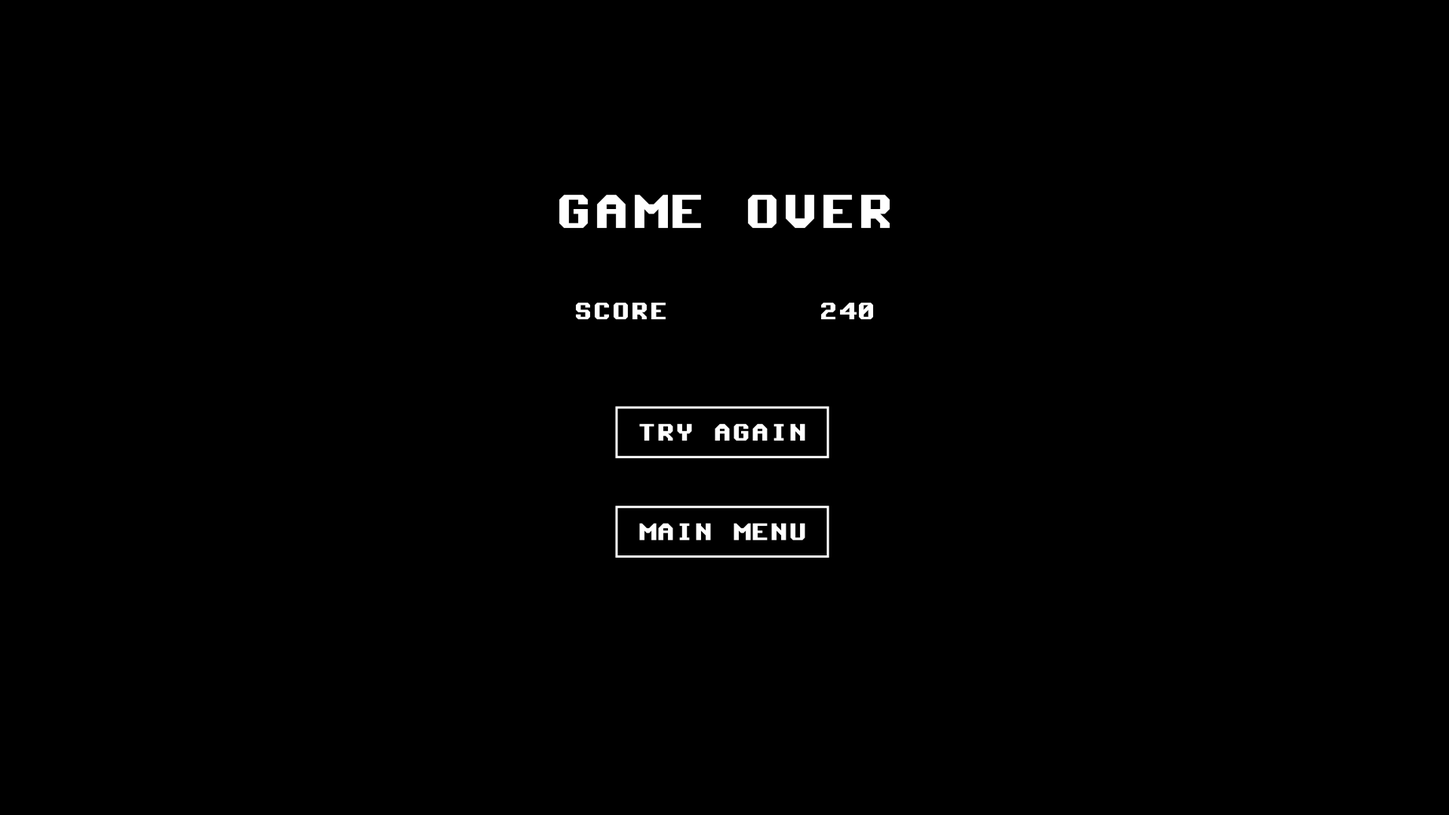
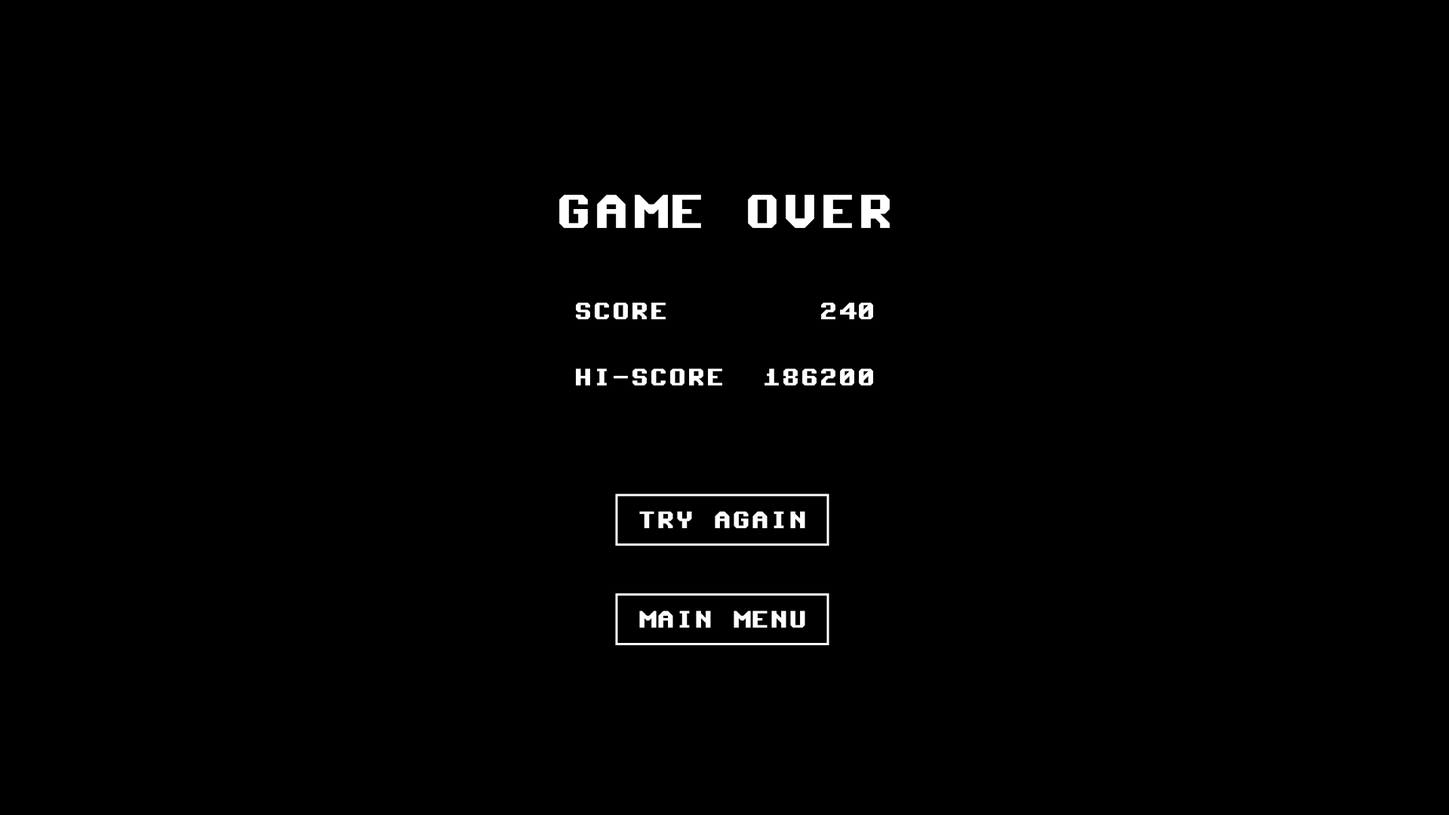
Plan reviewed by Sonnet. Unclear elements discussed and fixed.

Changed region(s): [[0.375, 0.4278, 0.625, 0.6722], [0.4375, 0.7028, 0.5625, 0.7944]]

diff --git a/docs/implementation-plan.md b/docs/implementation-plan.md
@@ -4,67 +4,101 @@
 
 Bouncerback is fully documented (`AGENTS.md`, `docs/*`) but has zero implementation: no `package.json`, no bundler, no `src` code — only docs, mockups, and raw assets. The goal is to scaffold and implement the React + PixiJS + Capacitor game described in the docs.
 
-Before planning, every doc, all seven mockups, and the level schema were read in full, surfacing a few real gaps/contradictions. The three that would materially change the implementation were resolved via clarifying questions with the user; the rest are minor and are handled as stated assumptions below (flag if any are wrong).
+Every doc, all seven mockups and the level schema were reviewed against each other. The gaps and contradictions found were resolved with the user; the resulting decisions are listed below and have also been written into the relevant docs (`game-rules.md`, `level-file-schema.json`, `navigation.md`, `project-structure.md`, `AGENTS.md`). If this plan and another doc disagree, the other doc is the source of truth and this plan should be corrected.
 
-### Stated assumptions (not blocking, proceed unless corrected)
+---
+
+## Decisions
+
+### Tooling & architecture
 - **Bundler:** Vite (fast ESM dev server, pairs well with PixiJS v8's async `app.init()` and with Capacitor).
-- **Language:** plain JavaScript/JSX — matches `.eslintrc.json` (no TS parser) and `project-structure.md` (all `.jsx`/`.js` files). The old deleted `docs/implementation-plan.md` mentioned TypeScript/Expo; that plan is stale/superseded and is ignored.
-- **No routing library** — `App.jsx` is a simple state-based screen switcher, per `project-structure.md`'s description ("router / screen switcher").
-- **Persistence:** `localStorage` for settings (music/SFX volume) and high score. Works identically in browser and Capacitor WebView; no extra plugin needed for v1.
-- **Orientation lock:** CSS/layout-based landscape enforcement plus a "rotate your device" overlay when the viewport is portrait (covers desktop browsers, which have no reliable lock API), and the `@capacitor/screen-orientation` plugin for a hard lock on native iOS/Android. This plugin isn't listed in `docs/tech-stack.md`'s stack table but is necessary to satisfy AGENTS.md rule "forced landscape orientation" on native.
+- **Language:** plain JavaScript/JSX — matches `.eslintrc.json` (no TS parser) and `project-structure.md` (all `.jsx`/`.js` files).
 - **PixiJS v8**, matching the async `app.init()` pattern in `docs/react-pixi-example.jsx`.
-- **VFX vocabulary:** `docs/level-file-schema.json`'s `vfx[].name` and `graphical-specs.md`'s "optional effects" are never given concrete identifiers. Two are introduced: `palette_invert` (black/white swap, used for the "one life left" state per graphical-specs) and `glow_pulse` (paddle glow). Level files can reference these by name in their `vfx` timeline; the 1-life-remaining trigger fires `palette_invert` directly from game state regardless of the level's own vfx list.
-- **Score "level" multiplier** in the formulas (`10 * level * charge`, etc.) = the level's numeric index, 1–5.
-- **Atom speed derivation:** `atoms.speed` ("beats to travel from the atom emitter to the containment ring") combined with `timeSignature.bpm` gives `secondsPerBeat = 60/bpm`; atom pixel speed = `ringRadius / (atoms.speed * secondsPerBeat)`. Timer initial value (tenths of a second) = `round(duration * signature * secondsPerBeat * 10)`.
-- No automated test framework is specified anywhere in the docs; a couple of lightweight Vitest unit tests for pure logic (score formulas, level-loader math) can be added since PixiJS/DOM rendering isn't practically unit-testable — this is additive, not required, and can be skipped to keep scope minimal.
-- Mobile app icon: `assets/images/icon.png` is the real square app icon. Mobile packaging (Phase 10, second development cycle) generates native icons/splash from it directly — no placeholder needed.
+- **No routing library** — `App.jsx` is a simple state-based screen switcher, per `project-structure.md` ("router / screen switcher").
+- **Screens only:** every screen lives in `src/screens/` and is built from the generic components in `src/components/` (`Button`, `Menu`, `TextBox`, `Overlay`, `HUD`, `Screen`). There are no separate `components/*Menu.jsx` files.
+- **Game Over and You Win! are full screens**, not overlays: they replace the Game Screen (`GameOverScreen.jsx`, `YouWinScreen.jsx`). Only the Pause screen (cycle 2) is an overlay.
+- **Assets are imported through Vite.** `assets/` stays at the repo root; code imports files (`import.meta.glob` / `?url`) so built filenames get a content hash (cache-busting) and only used files are shipped. The font is referenced from `src/index.css` by relative path so Vite processes it too.
+- **Persistence:** `localStorage` for settings (music/SFX volume) and high score. Works identically in browser and Capacitor WebView; no extra plugin needed.
+- **Orientation lock:** CSS/layout-based landscape in cycle 1; a "rotate your device" overlay and the `@capacitor/screen-orientation` native hard lock in cycle 2. The plugin isn't in `docs/tech-stack.md`'s stack table but is needed to satisfy AGENTS.md's "forced landscape orientation" on native.
+- **Tests:** no test framework is specified in the docs. A few Vitest unit tests for pure logic (score formulas, level-loader math) are an optional nice-to-have; PixiJS/DOM rendering isn't practically unit-testable.
+- **Mobile app icon:** `assets/images/icon.png` is the real square app icon; native icons/splash are generated from it in Phase 10.
+
+### Gameplay
+- **Bounce:** a paddle reverses an atom's direction exactly — it travels straight back through the core and out toward the opposite side of the ring (this is what makes the tap-at-the-core capture possible).
+- **Paddle lifetime** (`paddles.duration`) starts when the paddle is set (pointer released). While dragging, the paddle is inactive and doesn't expire.
+- **`paddles` is required** in the level schema. Suggested starting values: `angle` 30°, `duration` 3 s.
+- **Swallow phase (timer reaches 0):** spawning stops, paddles disappear, input is disabled and every atom inside the ring is pulled into the core over **3 seconds**. Nothing can escape, so no lives can be lost; atoms already fading out after escaping are ignored. Then the You Win! screen is shown.
+- **Score** (`level` = the level's number, 1–5):
+  - Bounce: `10 × level × charge`.
+  - Capture (tap-destroy at the core): `100 × level × charge`.
+  - Containment at level end: `200 × level × charge × remaining lives` for every atom swallowed.
+  - Time bonus at level end: `initial timer value (tenths of a second) × level`. Example: a 2-minute level 3 gives `1200 × 3 = 3600`.
+- **Charge:** atoms start at 1, gain +1 per bounce, capped at 10; they can be tap-destroyed at the core once charge ≥ 3.
+- **High score:** common to all levels, updated and saved the moment it's beaten, visible on the HUD, Game Over and You Win! screens.
+- **Timing math:** `secondsPerBeat = 60 / bpm`. Atom pixel speed = `ringRadius / (atoms.speed × secondsPerBeat)`. Initial timer (tenths of a second) = `round(duration × signature × secondsPerBeat × 10)`. Spawn interval = `atoms.frequency × signature × secondsPerBeat`, with the actual spawn at a random moment inside each interval.
+
+### Layout & UI
+- **Playfield scaling:** ring radius ≈ 31% of viewport height (a ring about 62% of the screen height, as in the GAMEPLAY mockup), centered; the core, atoms and paddle thickness scale with it. Recalculated on window resize/rotation. Because atom speed is defined in beats, gameplay timing is the same on every screen size.
+- **Font sizes** (per `graphical-specs.md`): 24px HUD, 32px menu buttons, 64px "GAME OVER" / "YOU WIN!" titles. Line height 1, weight normal, always uppercase, single line.
+- **Mockups win on on-screen text:** where a doc and a mockup disagree, follow the mockup. Labels: "HI-SCORE" (not "High Score"/"Best Score"), "TRY AGAIN" (not "Play Again"), "<<< BACK".
+- **Level Select** buttons show each level file's `name` (LEARN, NEUTRONIKA, FEMTOCOSMOS, CHRONOSAEDR0N, MEKANOMANCER). All levels are unlocked in cycle 1; unlocking comes in cycle 2.
+- **Try Again** restarts the same level from scratch (score reset to 0, lives from the level file).
+
+### VFX vocabulary
+`level-file-schema.json`'s `vfx[].name` and `graphical-specs.md`'s "optional effects" have no concrete identifiers yet. Two are introduced for cycle 2: `palette_invert` (black/white swap, used for the "one life left" state per graphical-specs) and `glow_pulse` (paddle glow). Level files can reference these by name in their `vfx` timeline; the one-life-left trigger fires `palette_invert` directly from game state regardless of the level's own vfx list.
 
 ---
 
 ## Development Cycles
 
-Implementation is split into two cycles. The **first development cycle** builds a fully playable MVP in the browser: core navigation, audio, level data, the PixiJS game engine, and scoring. Quality-of-life polish and native mobile packaging aren't required for the game to be playable end-to-end, so they're deferred to the **second development cycle**, specifically:
+Implementation is split into two cycles. The **first development cycle** builds a fully playable MVP in the browser: core navigation, audio, level data, the PixiJS game engine, and scoring. The following are deferred to the **second development cycle**:
 
 - Pause game functionality and overlay (no Pause screen/button in cycle 1; the game simply runs until win/loss).
-- Transitions between screens (all screen changes are immediate/instant swaps in cycle 1; animated transitions are added in cycle 2).
-- The "rotate your device" portrait overlay (cycle 1 still forces landscape via CSS/layout in the browser; the on-screen portrait-warning overlay and the native `@capacitor/screen-orientation` hard lock are both deferred).
-- VFX (`palette_invert`, `glow_pulse`, and the "one life left" trigger). The `vfx` field stays in the level schema and level files as an empty array (`[]`) in cycle 1 — schema shape is final, but nothing populates or renders it until cycle 2.
-- Mobile build (Capacitor `ios`/`android` packaging, native icons/splash, native orientation lock). Cycle 1 targets the web build only; `@capacitor/core`/`@capacitor/cli` deps are scaffolded in Phase 0 but `cap add`/`cap sync` and everything native happen in cycle 2.
+- Transitions between screens (all screen changes are immediate swaps in cycle 1).
+- The "rotate your device" portrait overlay (cycle 1 still forces landscape via CSS/layout; the portrait-warning overlay and the native `@capacitor/screen-orientation` hard lock are both deferred).
+- VFX (`palette_invert`, `glow_pulse`, and the "one life left" trigger). The `vfx` field stays in the level files as an empty array (`[]`) in cycle 1.
+- Level unlocking (all levels are playable from the start in cycle 1).
+- Mobile build (Capacitor `ios`/`android` packaging, native icons/splash, native orientation lock). Cycle 1 targets the web build only; Capacitor deps are installed in Phase 0 but `cap add`/`cap sync` and everything native happen in cycle 2.
 
 ---
 
 ## First Development Cycle (MVP)
 
 ### Phase 0 — Project scaffolding
-- `package.json`, Vite + `@vitejs/plugin-react`, deps: `react`, `react-dom`, `pixi.js@^8`, `howler`, `@capacitor/core`, `@capacitor/cli`, `@capacitor/ios`, `@capacitor/android`, `@capacitor/screen-orientation` (capacitor deps are scaffolded now but only exercised starting in Phase 10, second cycle).
+- `package.json`, Vite + `@vitejs/plugin-react`, deps: `react`, `react-dom`, `pixi.js@^8`, `howler`, `@capacitor/core`, `@capacitor/cli`, `@capacitor/ios`, `@capacitor/android`, `@capacitor/screen-orientation` (Capacitor deps are installed now but only used from Phase 10).
 - `index.html`, `src/main.jsx`, `capacitor.config.json` (placeholder appId/appName).
-- `src/index.css`: `@font-face` for `assets/fonts/c64_angled.ttf`, global reset, black background, `env(safe-area-inset-*)` padding, base `touch-action: none`.
+- `src/index.css`: `@font-face` for `assets/fonts/c64_angled.ttf` (relative path, processed by Vite), global reset, black background, `env(safe-area-inset-*)` padding, base `touch-action: none`.
 
 ### Phase 1 — App shell & navigation
-- `src/App.jsx`: screen-state switcher covering `navigation.md`'s flow (Intro → Main Menu → {Level Select, Settings} → Game → {Game Over, You Win} overlays). Pause is out of scope for cycle 1 (see Development Cycles above). All screen changes swap immediately — no transition animations.
-- `src/components/Screen.jsx`: wraps each screen, applies safe-area padding. Landscape is still enforced via CSS/layout and the native orientation lock, but the portrait "rotate device" overlay component itself is deferred to cycle 2.
-- Generic UI: `Button.jsx`, `Menu.jsx`, `TextBox.jsx`, `Overlay.jsx` implementing `graphical-specs.md` exactly — thin border, transparent fill, 1em padding, uppercase, single line, C64 Angled font, light/dark (`#DDDDDD`/`#000000`) variants per screen.
+- `src/App.jsx`: screen-state switcher covering `navigation.md`'s flow (Intro → Main Menu → {Level Select, Settings} → Game → {Game Over, You Win!}). Game Over and You Win! are full screens that replace the Game Screen. Try Again restarts the same level; Main Menu returns to the menu. All screen changes are immediate.
+- `src/components/Screen.jsx`: wraps each screen, applies safe-area padding and the light/dark (`#DDDDDD`/`#000000`) background variant.
+- Generic UI: `Button.jsx`, `Menu.jsx`, `TextBox.jsx`, `Overlay.jsx` implementing `graphical-specs.md` exactly — thin border in the text color, transparent fill, 1em padding, line height 1, uppercase, single line, C64 Angled font at the sizes listed in Decisions.
 
 ### Phase 2 — Audio manager
-- `src/audio/soundManager.js` (Howler wrapper): preloads all `assets/audio/*.mp3` + `assets/audio/tracks/*.mp3`; unlocks by playing `silence.mp3` on the Intro screen's first tap (which then advances to Main Menu); exposes `playSfx(name)`, `playTrack(name)` with crossfade, and "don't restart if same track" continuity (audio-map.md rules 1–3); music/SFX volume (0–10 scale per SETTINGS mockup) persisted to `localStorage` and read by every screen (available globally, not just in-game, per AGENTS.md rule 5).
+- `src/audio/soundManager.js` (Howler wrapper): loads all SFX and tracks via Vite imports; unlocks by playing `silence.mp3` on the Intro screen's first tap (which then advances to Main Menu); exposes `playSfx(name)`, `playTrack(name)` with crossfade, and "don't restart if same track" continuity (`audio-map.md` rules 1–3); music/SFX volume (0–10 scale per the SETTINGS mockup) persisted to `localStorage` and available on every screen (AGENTS.md rule 5).
+- SFX mapping per `audio-map.md`: `launch` on spawn, `bounce` on paddle hit, `capture` on tap-destroy, `destroy` on escape, `vortex_creation` at the start of the swallow.
 
 ### Phase 3 — Level data & loader
-- Author `src/levels/level1.json`…`level5.json` against the corrected schema (level1 = easiest: lowest atom speed/frequency demand relative to duration, most lives; difficulty ramps to level5). Track assignment per `audio-map.md`'s suggested defaults (`learn.mp3`…`mekanomancer.mp3`). Each level's `vfx` field is an empty array (`[]`) in cycle 1.
-- `src/game/levelLoader.js`: parses/validates a level JSON and returns derived runtime values (`timerTenths`, `atomSpeedPxPerSec`, `spawnIntervalSeconds` with the "random moment within interval" jitter from game-rules.md, paddle arc-degrees/duration, starting lives).
+- Author `src/levels/level1.json`…`level5.json` against `docs/level-file-schema.json` (with `paddles` required). Level 1 is the easiest: slowest atoms, least frequent spawns, most lives, widest paddles; difficulty ramps up to level 5. Starting paddle values: 30° / 3 s, tuned per level. `name` values match the Level Select mockup; tracks per `audio-map.md` (`learn.mp3`…`mekanomancer.mp3`). `vfx` is `[]`.
+- `src/game/levelLoader.js`: validates a level JSON and returns derived runtime values (`timerTenths`, `secondsPerBeat`, atom speed as a fraction of ring radius per second, spawn interval with random jitter, paddle arc in radians and duration, starting lives).
 
 ### Phase 4 — PixiJS GameEngine & entities
-- `src/game/GameEngine.js`: owns the `PIXI.Application` and `app.ticker` loop; builds `ContainmentRing`, `AtomEmitter` (core), pooled `Atom`s and `Paddle`s; implements the two-stage pointer flow from game-rules.md (`pointerdown` draws an inactive paddle, `pointermove` rotates it with the cursor, `pointerup` commits it at the release angle, oldest paddle evicted FIFO on a 3rd placement); collision checks (atom↔paddle arc reflects + increments charge up to 10, atom↔ring escape fades the atom and costs a life, atom↔core tap destroys atoms with charge ≥ 3); emits only low-frequency callbacks (`onScoreChange`, `onLivesChange`, `onTimeChange`, `onGameOver`, `onLevelWin`) — no per-frame state ever crosses into React, per AGENTS.md rule 2. Calls `app.destroy(true, { children: true, texture: true })` on teardown (rule 3); canvas container has `touchAction: 'none'` (rule 4).
-- `src/game/entities/{AtomEmitter,ContainmentRing,Paddle,Atom}.js`: `PIXI.Graphics`-based vector shapes (white lines/fills on black, no textures, per `graphical-specs.md`) with per-entity `update(deltaMS)`.
+- `src/game/GameEngine.js`: owns the `PIXI.Application` and `app.ticker` loop; builds `ContainmentRing`, `AtomEmitter` (core), pooled `Atom`s and `Paddle`s; sizes the playfield from the viewport height and relayouts on resize.
+- Input, per `game-rules.md`: `pointerdown` draws an inactive paddle at the pointer's angle, `pointermove` rotates it, `pointerup` sets it and starts its lifetime; a third paddle removes the oldest (first in, first out). A tap on an atom with charge ≥ 3 while it crosses the core destroys it.
+- Collisions: atom ↔ active paddle arc reverses direction exactly and adds charge (max 10); atom ↔ ring with no paddle means escape: it fades out on the same path and costs a life.
+- End of level: timer reaches 0 → 3-second swallow (no spawns, no paddles, no input, no escapes), then containment and time-bonus scores are added and `onLevelWin` fires. Lives reach 0 → `onGameOver`.
+- Emits only low-frequency callbacks (`onScoreChange`, `onLivesChange`, `onTimeChange`, `onGameOver`, `onLevelWin`) — no per-frame state crosses into React (AGENTS.md rule 2). Calls `app.destroy(true, { children: true, texture: true })` on teardown (rule 3); canvas container has `touchAction: 'none'` (rule 4).
+- `src/game/entities/{AtomEmitter,ContainmentRing,Paddle,Atom}.js`: `PIXI.Graphics` vector shapes (white lines and filled circles on black, no textures) with per-entity `update(deltaMS)`.
 
 ### Phase 5 — Screens & HUD wiring
-- `src/screens/{MainMenuScreen,LevelSelectionMenuScreen,SettingsMenuScreen,GameScreen,GameOverOverlay}.jsx` + a `YouWinOverlay.jsx` (mirrors GameOver per the mockup, adds hi-score line), each matching its `docs/mockups/*.png` mockup. No PauseOverlay in cycle 1.
-- `src/components/HUD.jsx`: SCORE / TIME / HI-SCORE + life-dots row, updated only from the GameEngine's low-frequency callbacks (matches GAMEPLAY.png layout).
+- `src/screens/{IntroScreen,MainMenuScreen,LevelSelectionMenuScreen,SettingsMenuScreen,GameScreen,GameOverScreen,YouWinScreen}.jsx`, each matching its `docs/mockups/*.png` mockup. Game Over and You Win! both show SCORE and HI-SCORE plus TRY AGAIN / MAIN MENU buttons.
+- `src/components/HUD.jsx`: SCORE / TIME / HI-SCORE + life-dots row, updated only from the GameEngine's low-frequency callbacks (GAMEPLAY mockup layout).
 
 ### Phase 6 — Scoring & rules
-- Implement `game-rules.md`'s Score section verbatim (bounce, capture, end-of-level containment × remaining lives, time bonus), charge accumulation (+1 per bounce, cap 10, tap-to-destroy unlocked at charge ≥ 3), immediate high-score update+persist the moment it's beaten (visible on every screen per game-rules.md "High Score").
+- `src/game/scoring.js`: pure functions for the four score formulas in Decisions, plus the high-score update that saves to `localStorage` the moment it's beaten.
 
 ### Phase 7 — QA pass (web)
-- Manual verification per `implementation-guidelines.md`'s per-step "Verify" checklists, on the web build only; optional Vitest unit tests for the pure math (scoring, level loader) as a nice-to-have.
+- Manual verification per `implementation-guidelines.md` and the Verification section below, web build only; optional Vitest unit tests for scoring and level-loader math.
 
 ---
 
@@ -73,12 +107,11 @@ Implementation is split into two cycles. The **first development cycle** builds 
 Builds on top of the playable MVP from the first cycle. Each item below assumes cycle 1 is complete and merged.
 
 ### Phase 8 — Pause functionality
-- `src/screens/PauseOverlay.jsx` matching its `docs/mockups/*.png` mockup.
-- Pause button stops `app.ticker`; Resume restarts it; Settings/Main Menu buttons inside Pause reuse the existing screens.
-- Wire Pause into `src/App.jsx`'s screen-state switcher and into `GameScreen.jsx`.
+- `src/screens/PauseOverlay.jsx` (the only overlay screen), with Resume / Settings / Main Menu per `navigation.md`. No mockup exists yet; follow the style of the other menus.
+- A Pause button (top-right of the Game Screen) stops `app.ticker`; Resume restarts it. Settings opened from Pause returns to Pause without losing game state.
 
 ### Phase 9 — Screen transitions
-- Replace the immediate screen swaps in `src/App.jsx`/`Screen.jsx` with animated transitions between screens (style/timing per `graphical-specs.md` and the mockups, if specified; otherwise a simple consistent fade/cut is acceptable).
+- Replace the immediate screen swaps in `src/App.jsx` / `Screen.jsx` with animated transitions (a simple, consistent fade or cut unless the specs define one).
 
 ### Phase 10 — Mobile packaging
 - **Prerequisites (verify before starting):** full **Xcode** app installed from the App Store (Xcode Command Line Tools alone are not sufficient for `npx cap add ios` or building/running in the iOS Simulator — confirm with `xcodebuild -version`; if it errors, install Xcode and run `xcode-select -s /Applications/Xcode.app`), and Android Studio + Android SDK for the Android side. See `docs/tech-stack.md` §4.
@@ -88,18 +121,23 @@ Builds on top of the playable MVP from the first cycle. Each item below assumes 
 - Add the portrait "rotate your device" overlay to `src/components/Screen.jsx`, shown whenever the viewport is portrait (covers desktop browsers without a reliable orientation-lock API, and native before the Phase 10 hard lock takes effect).
 
 ### Phase 12 — Visual effects
-- Small vfx registry (`palette_invert`, `glow_pulse`) driven both by a level's `vfx` timeline (bar-offset → seconds, via the loader) and directly by game state (1 life left → `palette_invert`).
-- Populate the `vfx` arrays in `src/levels/level1.json`…`level5.json` (left empty in cycle 1) with actual timeline entries.
+- Small vfx registry (`palette_invert`, `glow_pulse`) driven both by a level's `vfx` timeline (bar offset → seconds, via the loader) and directly by game state (one life left → `palette_invert`).
+- Fill in the `vfx` arrays in `src/levels/level1.json`…`level5.json`.
+
+### Phase 13 — Level unlocking
+- Only level 1 is available at first; winning a level unlocks the next, saved in `localStorage`. Needs a visual style for locked buttons on Level Select (to be designed).
 
 ---
 
 ## Verification
 
 ### First development cycle
-- `npm run dev`: click through Intro → Main Menu → Level Select → Settings → Game; compare pixel layout against each `docs/mockups/*.png` mockup at a landscape browser viewport. Screen changes are immediate (no transitions to verify yet); no rotate-device overlay yet.
-- Manual gameplay pass on `level1`: paddle placement (down/drag/release), atom bounce/charge/escape/destroy, timer countdown, life loss, win/loss overlays, and score math all match `game-rules.md`'s formulas. No pause button yet.
-- Audio: confirm `silence.mp3` fires on first Intro tap before any other sound, track continuity/crossfade across screens, volume settings persist across a reload.
-- Web build only — no Android/iOS simulator pass yet; mobile packaging hasn't been added.
+- `npm run dev`: click through Intro → Main Menu → Level Select → Settings → Game → Game Over / You Win! → Try Again / Main Menu; compare each screen against its `docs/mockups/*.png` mockup at a landscape browser viewport, including font sizes (24/32/64px).
+- Resize the browser window during gameplay: the ring stays centered and scales with the height; atom timing doesn't change.
+- Manual gameplay pass on `level1`: paddle placement (press/drag/release, lifetime starts on release, FIFO with a third paddle), straight-back bounce and charge, escape and life loss, tap-destroy at charge ≥ 3, timer countdown, 3-second safe swallow, and score math (including the `timerTenths × level` time bonus) all match `game-rules.md`.
+- High score updates live on the HUD when beaten and survives a reload.
+- Audio: `silence.mp3` fires on the first Intro tap before any other sound; track continuity/crossfade across screens; volume settings survive a reload.
+- Production build (`npm run build` + `npm run preview`): assets load with hashed filenames.
 
 ### Second development cycle
 - Pause/Resume works mid-game via `app.ticker` stop/start, and Settings/Main Menu are reachable from Pause without losing game state incorrectly.
@@ -107,3 +145,4 @@ Builds on top of the playable MVP from the first cycle. Each item below assumes 
 - `npx cap sync` completes cleanly; app boots in an Android/iOS simulator with landscape locked and audio unlocking on first tap.
 - Rotate-device overlay appears in a portrait emulated viewport (browser and native) and disappears when rotated back to landscape.
 - VFX fire at the correct level-timeline moments and the "one life left" `palette_invert` triggers correctly.
+- Level unlocking: only level 1 is available on a fresh install; winning unlocks the next one and survives a reload.

diff --git a/docs/project-structure.md b/docs/project-structure.md
@@ -26,15 +26,14 @@ root/
     ├── components/                 # React UI components (HUD, Menus, Modals)
     │   ├── Button.jsx              # Reusable button component
     │   ├── HUD.jsx                 # Heads-Up Display for in-game information
-    │   ├── MainMenu.jsx            # Main menu screen
     │   ├── Menu.jsx                # Generic menu container component
     │   ├── Screen.jsx              # Base screen wrapper component (handles transitions, safe areas, etc.)
-    │   ├── SettingsMenu.jsx        # Settings menu screen
-    │   ├── LevelSelectionMenu.jsx  # Level selection menu screen
     │   ├── Overlay.jsx             # Generic overlay component to be placed on top of current screen content
     │   └── TextBox.jsx             # Floating text box component.
     ├── game/                       # Pure game logic & PixiJS implementation
     │   ├── GameEngine.js           # Main PixiJS application orchestrator
+    │   ├── levelLoader.js          # Validates level JSON and derives runtime values (timer, speeds, intervals)
+    │   ├── scoring.js              # Pure score formulas and high-score persistence
     │   └── entities/               # Game objects
     │   │   ├── AtomEmitter.js      # The central element that stays in place and spawns atoms.
     │   │   ├── ContainmentRing.js  # The ring where the atoms are escaping from
@@ -46,13 +45,15 @@ root/
     │   ├── level3.json             # Level 3 data
     │   ├── level4.json             # Level 4 data
     │   └── level5.json             # Level 5 data
-    ├── screens/                    # React screen wrappers
+    ├── screens/                    # React screens, built from the generic components above
+    │   ├── IntroScreen.jsx         # Intro screen (first tap unlocks audio)
+    │   ├── MainMenuScreen.jsx      # Main menu screen
+    │   ├── SettingsMenuScreen.jsx  # Settings menu screen
+    │   ├── LevelSelectionMenuScreen.jsx  # Level selection menu screen
     │   ├── GameScreen.jsx          # Houses the PixiCanvas component & HUD overlay
-    │   ├── MainMenuScreen.jsx      # Main menu screen wrapper
-    │   ├── SettingsMenuScreen.jsx  # Settings menu screen wrapper
-    │   ├── LevelSelectionMenuScreen.jsx  # Level selection menu screen wrapper
-    │   ├── GameOverOverlay.jsx     # Game over overlay screen wrapper
-    │   └── PauseOverlay.jsx        # Pause overlay screen wrapper
+    │   ├── GameOverScreen.jsx      # Game over screen (replaces the Game Screen)
+    │   ├── YouWinScreen.jsx        # You win screen (replaces the Game Screen)
+    │   └── PauseOverlay.jsx        # Pause overlay on top of the Game Screen (second development cycle)
     ├── App.jsx                     # React top-level router / screen switcher
     ├── main.jsx                    # React entry point
     └── index.css                   # Global styles & mobile safe-area setup

diff --git a/docs/game-rules.md b/docs/game-rules.md
@@ -18,6 +18,12 @@ If the player runs out of lives (it reaches zero), the game will end in a "Game 
 
 When the timer runs out, the core will attract all atoms and "swallow" them. The level will end succesfuly and the player will be taken to the "YOU WIN!" screen.
 
+The swallow phase is safe for the player:
+
+* When the timer reaches zero, the core stops emitting atoms, all paddles disappear and player input is disabled.
+* Every atom still inside the containment ring is pulled into the core. No atom can escape during the swallow, so no lives can be lost. Atoms that were already fading out after escaping are ignored.
+* The swallow lasts 3 seconds. Then the "YOU WIN!" screen is shown.
+
 # Player input mechanics
 
 ## Paddles
@@ -27,9 +33,11 @@ The paddle's exact position on the circumference of the ring will be calculated 
 To help the player set the paddles at the exact desired place, two events will be used: onMouseDown the paddle will be drawn, but inactive. The user can drag 
 the mouse while holding the left-click button (or doing the equivalent gesture with a touchscreen), and the paddle will rotate around the core following the mouse position. When the user releases the button, the paddle will be set at the current position.
 
+The paddle's lifetime (the `paddles.duration` value in the level file) starts counting when the paddle is set (on release), not when the button is pressed. While the player is dragging, the paddle is inactive and doesn't expire.
+
 ## Atom capture
 
-Every time an atom is blocked by a paddle, its direction will be reversed and it will gain a "charge". When the atom has three chargers, the player can destroy it by tapping on it while crossing the core.
+Every time an atom is blocked by a paddle, its direction will be reversed and it will gain a "charge". The reversal is exact: the atom travels straight back through the core and out toward the opposite side of the ring. When the atom has three chargers, the player can destroy it by tapping on it while crossing the core.
 
 Destroying atoms is optional, the player can keep bouncing them for extra points and charges, up to a limit of ten charges. At ten charges, the atom will not gain charges, but otherwise it will behave as a normal atom.
 
@@ -50,7 +58,7 @@ The player will get:
 * 10 points * level * atom charge value every time it bounces back an atom using a paddle. 
 * 100 points * level * atom charge value for every atom captured
 * 200 points * level * atom charge value * remaining lives for every atom contained at the end of the level, when the core "swallows" all remaining atoms.
-* Additional bonus after all remaining atoms have been swallowed (the player needs to pass the level): 1 point for every 0.1 seconds.
+* Additional time bonus after all remaining atoms have been swallowed (the player needs to pass the level): 1 point * level for every 0.1 seconds of the level's total duration. In other words, the level's initial timer value (in tenths of a second) * level. For example, a 2-minute level 3 gives 1200 * 3 = 3600 points.
  
 # High Score
 

diff --git a/docs/navigation.md b/docs/navigation.md
@@ -1,31 +1,35 @@
 # Navigation Flow
 
 - **Intro Screen**
+  - Tap anywhere to continue (unlocks audio) → Main Menu
 - **Main Menu**
   - Settings Button
   - Start Game Button
 - **Level Selection Screen**
-  - Level 1 Button
-  - Level 2 Button
-  - Level 3 Button
-  - Level 4 Button
-  - Level 5 Button
+  - One button per level, labeled with the level file's `name` (LEARN, NEUTRONIKA, FEMTOCOSMOS, CHRONOSAEDR0N, MEKANOMANCER). All levels are unlocked from the start.
   - Back Button
 - **Settings Screen**
   - Sound FX Volume dual-button
   - Music Volume dual-button
   - Back Button
 - **Game Screen** *(During gameplay)*
-  - HUD (score, lives, time)
+  - HUD (score, time, hi-score, lives)
   - Game Canvas
-  - Pause Button (top‑right)
-- **Pause Overlay**
+  - Pause Button (top‑right) *(second development cycle)*
+- **Pause Overlay** *(second development cycle; shown on top of the Game Screen. No mockup yet: follow the style of the other menus)*
   - Resume Button
   - Settings Button
   - Main Menu Button
-- **Game Over Overlay**
+- **Game Over Screen** *(replaces the Game Screen when the player runs out of lives)*
   - Score
-  - Best Score
-  - Play Again Button
+  - Hi-Score
+  - Try Again Button (restarts the same level from scratch: score reset to 0, lives reset to the level file's value)
+  - Main Menu Button
+- **You Win! Screen** *(replaces the Game Screen after the core swallows the remaining atoms)*
+  - Score
+  - Hi-Score
+  - Try Again Button (restarts the same level from scratch: score reset to 0, lives reset to the level file's value)
   - Main Menu Button
 
+> [!NOTE]
+> When a doc and a mockup disagree on on-screen text, the mockup wins. For example: "HI-SCORE" (not "High Score" or "Best Score") and "TRY AGAIN" (not "Play Again").

diff --git a/AGENTS.md b/AGENTS.md
@@ -55,7 +55,8 @@ Mobile browsers block audio until an explicit user interaction. Ensure Howler.js
 - Forced **landscape** orientation.
 - **Black background** (`#000000`) during gameplay; white (`#DDDDDD`) background only for inverted menu layouts.
 - All graphics: **2D vector only**, no textures, no images. White lines and filled circles on black.
-- Font: **"C64 Angled"** monospaced — `assets/fonts/c64_angled.ttf`. Size always 24px, weight normal, always uppercase.
+- Font: **"C64 Angled"** monospaced — `assets/fonts/c64_angled.ttf`. Weight normal, line height 1, always uppercase.
+- Font sizes (per `docs/graphical-specs.md`): **24px** for HUD text, **32px** for menu buttons, **64px** for the "GAME OVER" and "YOU WIN!" titles.
 - All text/menus wrapped in a **thin-border transparent rectangle** with 1em padding.
 - All text boxes: **single line**, centered justification text, no breaks.
 
